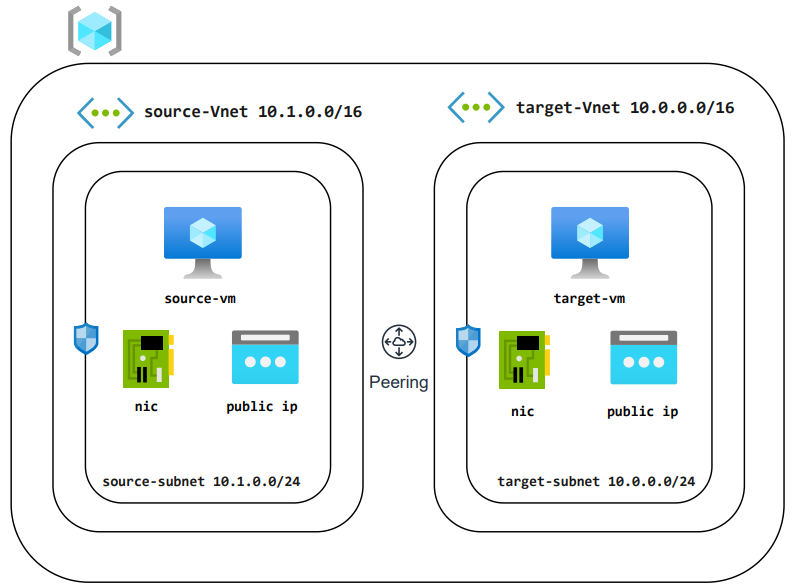
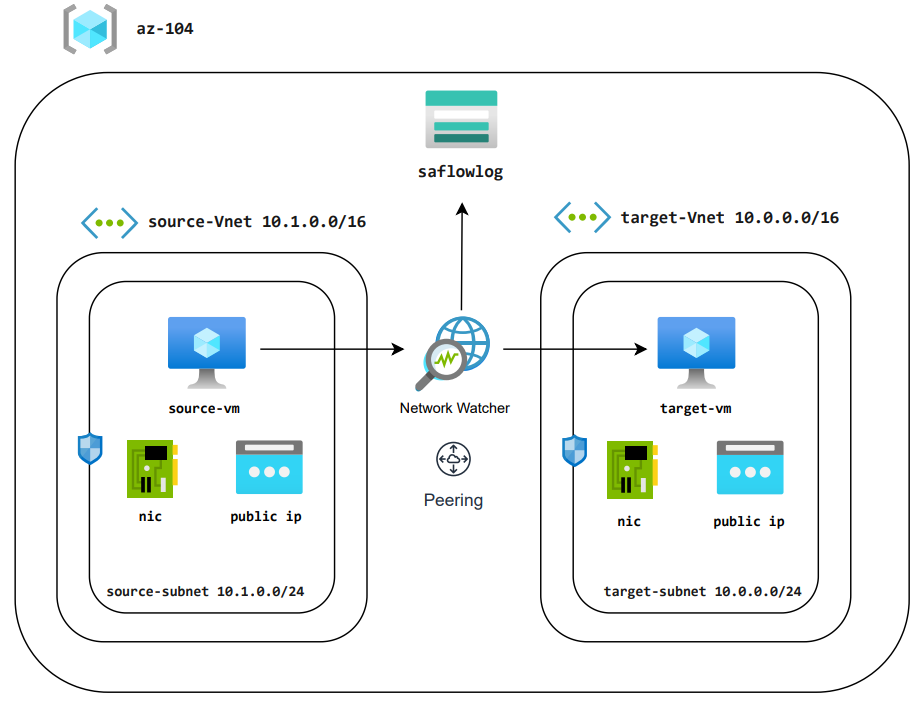
updated the do

diff --git a/README.md b/README.md
@@ -212,7 +212,7 @@ Network watcher enables you to monitor and repair the network health of IaaS ser
 - Connectioin Monitor - It helps you understand the network performance between different endpoints in your network infrastructure. It monitors the connections on a continuous basis, as opposed to connection troubleshoot, which monitors at a point in time. 
 
 **Network diagnostic tools**
-- Next hop - This helps you to detect routing issues and to understand whether a packet of data is reaching its destination. It provides information about the next hop type, IP address, and the route table ID for a destination IP address.
+- Next hop - This helps you to detect routing issues and to understand whether a packet of data is reaching its destination. It provides information about the next hop type, IP address, and the route table ID for a destination IP address. This feature is quite useful when we have a user-defined route in our architecture. If there's an intermediate step before the traffic reaches its destination i.e., a virtual network appliance, then the next hop feature within the Network Watcher is useful to verify the next hop.
 - Ip flow verify - This shows traffic filtering issues at the virtual machine level. This allows to see if a packet is allowed or denied to or from a virtual machine. If a packet is being denied due to a security group, it shows which rule is denying that packet.
 - Connection troubleshoot - Connection troubleshoot enables you to test a connection between a virtual machine, a virtual machine scale set, an application gateway, or a Bastion host and a virtual machine, an FQDN, a URI, or an IPv4 address. The test returns similar information returned when using the connection monitor capability, but tests the connection at a point in time instead of monitoring it over time.
 - Effective security rules - It allows you to view the effective security rules applied to a network interface. It shows you all security rules applied to the network interface, the subnet the network interface is in, and the aggregate of both.
@@ -221,5 +221,5 @@ Network watcher enables you to monitor and repair the network health of IaaS ser
 - NSG diagnostics - Similar to If Flow Verify, but with more functionalities. It provides information about whether a packet of data is allowed to denied to or from an IP address, IP prefix, or service tag. 
 
 **Traffic** Network Watcher offers two traffic tools that help you log and visualize network traffic: Flow logs, and Traffic analytics. 
-- Flow logs - Helps you to log information about your Azure IP traffic and stores the data in Azure storage. You can log IP traffic flowing through a network security group or Azure virtual network.
+- Flow logs - Helps you to log information about your Azure IP traffic and stores the data in Azure storage. You can log IP traffic flowing through a network security group or Azure virtual network. So, if you want to get the entire log information about traffic flow through a network security group, we an take advantage of IP Flow Log. 
 - Traffic Analytics - Provides rich visualizations of flow logs data

diff --git a/tf/VnetPeeringConnectionMonitor/README.md b/tf/VnetPeeringConnectionMonitor/README.md
@@ -22,7 +22,8 @@ Virtual Network Peering offers several benefits:
 
 **Cost Efficiency -** VNet peering is a cost-effective solution for connecting resources within Azure as it avoids the additional expenses associated with data transfer or VPN gateways.
 
-# Network Watcher and Connection Monitor
+# Network Watcher
+## Connection Monitor
 
 To monitor the connectivity between virtual machines across the peered virtual networks, we deployed Azure Network Watcher along with Connection Monitor.
 
@@ -31,6 +32,9 @@ Azure Network Watcher provides tools to monitor, diagnose, and gain insights int
 Connection Monitor, a feature of Azure Network Watcher, continuously monitors connectivity between specified source and destination virtual machines. In our scenario, Connection Monitor played a crucial role in verifying the successful establishment of connectivity between the virtual machines across the peered virtual networks.
 
 By leveraging Network Watcher and Connection Monitor, we were able to ensure the reliability and stability of the communication between the virtual machines deployed in the source-Vnet and target-Vnet, thus enhancing the overall performance and resilience of our Azure network architecture.
+
+## Flow Log
+In our Azure network architecture, we've incorporated Flow Logs as part of our network security monitoring strategy. Flow Logs provide detailed visibility into the traffic flowing through our network security groups (NSGs) by capturing network activity logs. Flow Logs capture information about the network traffic that traverses the NSGs associated with our Azure virtual networks. These logs include details such as source and destination IP addresses, ports, protocols, and traffic direction (inbound or outbound). Flow data is sent to Azure Storage from where you can access it and export it to any visualization tool, security information and event management (SIEM) solution, or intrusion detection system (IDS) of your choice.
 
 # Infrastructure as Code with Terraform
 As our infrastructure requirements evolve, Terraform empowers us to scale our network resources seamlessly. Adding additional subnets, virtual machines, or peering connections can be achieved by simply updating our Terraform configuration files. Terraform also facilitated the deployment of Azure Network Watcher and Connection Monitor as integral parts of our network monitoring strategy.
